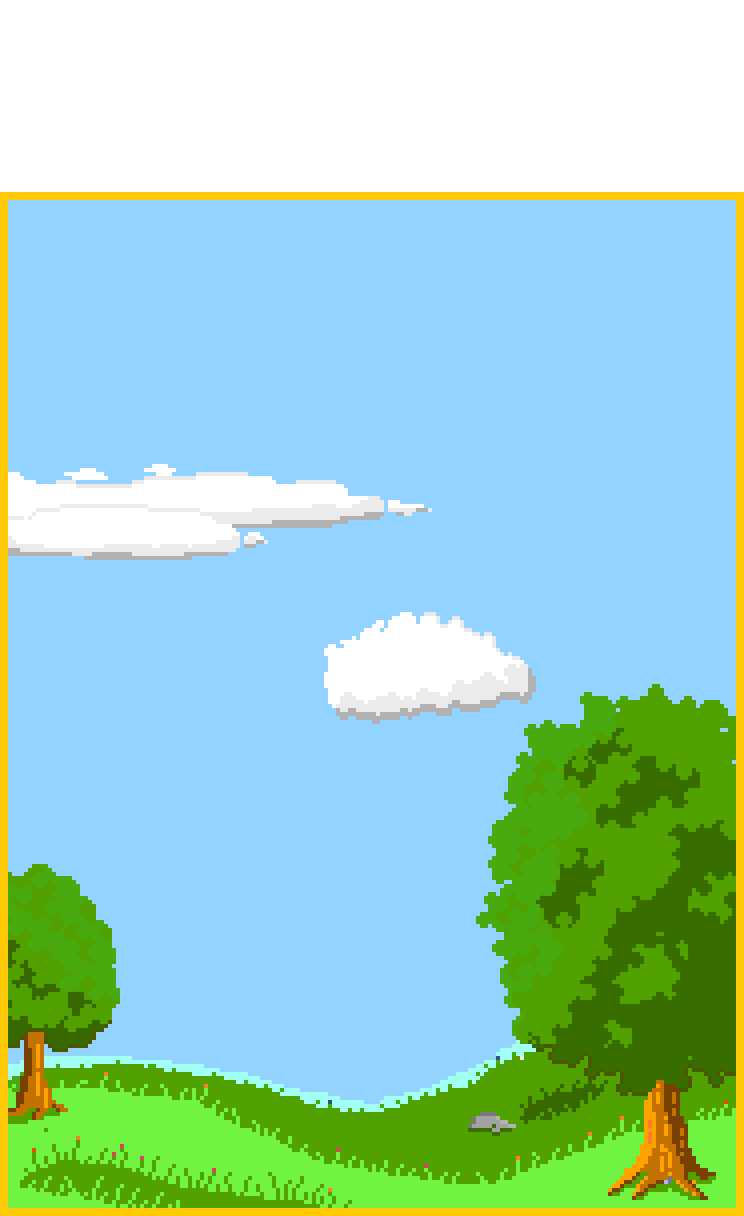
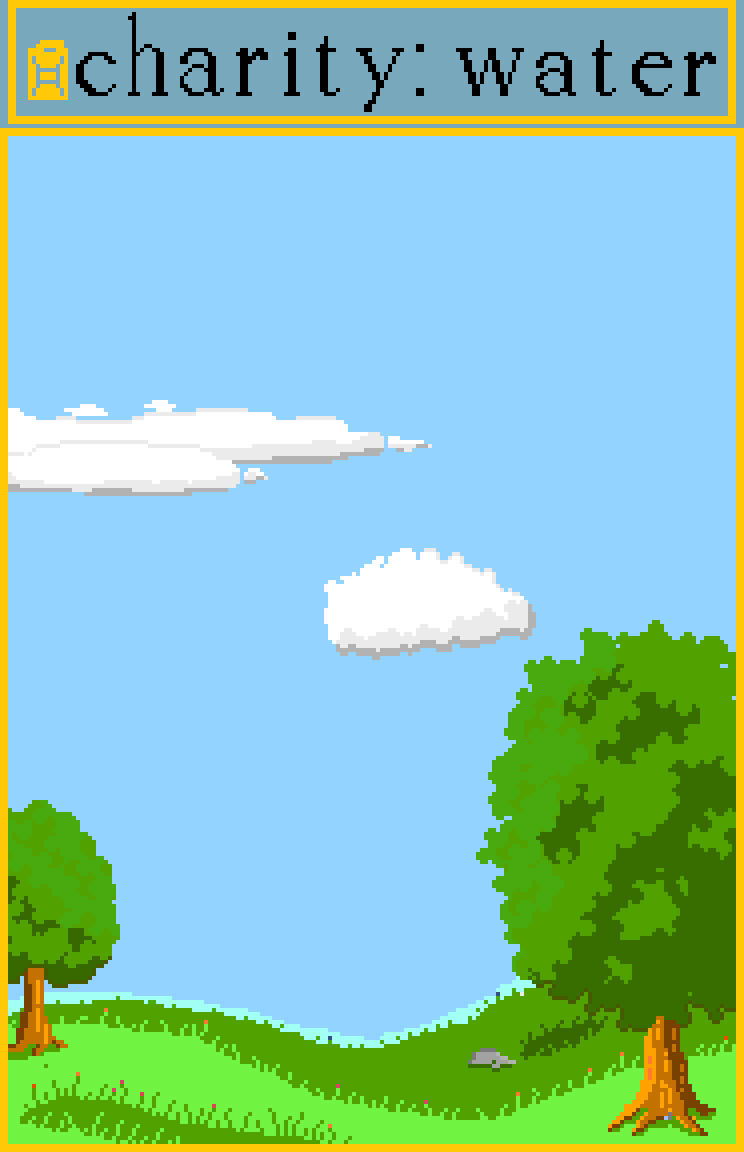
Proto-fin

diff --git a/style.css b/style.css
@@ -1,3 +1,42 @@
+/* Nav Bar Styles */
+
+.navbar {
+  position: fixed;
+  top: 0;
+  left: 0;
+  width: 100vw;
+  background: #fff;
+  border-bottom: 1.5px solid #cbccd1;
+  display: flex;
+  align-items: center;
+  padding: 0.5em 1.5em;
+  box-sizing: border-box;
+  margin: 0;
+  z-index: 1000;
+}
+
+body {
+  /* Add padding to prevent content from hiding under the fixed navbar */
+  padding-top: 3.5em;
+}
+
+.navbar-logo {
+  height: 1.2em;
+  width: 10.17em;
+  display: block;
+  margin-left: 0;
+  margin-top: 1em;
+  margin-bottom: 1em;
+}
+
+@media (max-width: 800px) {
+  .navbar {
+    justify-content: center;
+  }
+  .navbar-logo {
+    margin-left: 0;
+  }
+}
 /* Charity: water Brand Colors & Fonts
 
 Primary Colors:
@@ -23,54 +62,75 @@ Fonts:
 }
 
 body {
-  font-family: Arial, sans-serif;
-  margin: 0;
-  padding: 30px;
-  background-color: #f0f0f0;
-  color: #333;
+  font-family: 'Proxima Nova', Arial, sans-serif;
+  margin: 0em;
+  padding: 1em;
+  background-color: #fff7e1;
+}
+
+.container,
+.stats,
+.stats p,
+.game-instructions,
+.game-grid,
+button,
+.grid-cell {
+  font-family: 'Proxima Nova', Arial, sans-serif;
 }
 
 .container {
-  max-width: 750px;
-  margin: 50px auto;
-  background-color: #fff;
-  padding: 40px;
-  border-radius: 10px;
-  box-shadow: 0 2px 10px rgba(0, 0, 0, 0.1);
+  max-width: 28em;
+  min-width: 22em;
+  margin: 4em auto;
+  background-color: #77a8bb;
+  padding: .5em;
+  border-radius: .6em;
+  /* Very subtle drop shadow for depth */
+  box-shadow: 0 .1em .1em 0 rgba(0, 0, 0, 0.336);
 }
 
 h1 {
   text-align: center;
-  font-size: 30px;
-  font-weight: bold;
-  margin-bottom: 20px;
-  color: #333;
+  font-size: 2.0em;
+  font-weight: 400; /* Make the font thinner */
+  margin-bottom: .5em;
+  color: #ffffff;
+  font-family: 'Kazimir Text', serif;
+  font-style: normal;
 }
 
 h1 img {
-  height: 50px;
-  margin-right: 15px;
+  height: 3em;
+  margin-right: 3em;
   display: block;
 }
 
 .game-instructions {
-  font-size: 18px;
-  margin-bottom: 30px;
+  font-size: 1.0em;
+  margin-bottom: 1em;
   text-align: center;
+  color: #ffffff; /* Charity: water blue for emphasis */
+  font-weight: 400;
+  letter-spacing: 0.01em;
+  line-height: 1.5;
 }
 
 .stats {
   display: flex;
-  justify-content: space-around;
-  margin-bottom: 30px;
-  background-color: #f5f5f5;
-  padding: 15px 0;
-  border-radius: 8px;
+  justify-content: space-evenly;
+  margin-bottom: 0.1em; /* Reduced space below stats */
+  margin-left: 3em;
+  margin-right: 3em;
+  padding: .5em 0;
+  border-radius: 0.4em;
+  background-color: #FFC907;
+  color: rgb(26, 26, 26);
+  border: .1em solid;
 }
 
 .stats p {
   margin: 0;
-  font-size: 18px;
+  font-size: 0.7em;
   font-weight: bold;
   color: #333;
 }
@@ -78,17 +138,17 @@ h1 img {
 .game-grid {
   display: grid;
   grid-template-columns: repeat(10, 1fr);
-  width: 315px;
-  height: 512px;
-  margin: 2em auto;           /* Center the grid vertically and horizontally */
-  padding: 40px 40px 10px;
-  position: relative;         /* Needed for absolute positioning of floating elements */
+  width: 21em;
+  height: 35em;
+  margin: 0.1em auto 0.2em auto; /* Less space above and below grid */
+  padding: 0.7em 1em 2em;
+  position: static;         /* Needed for absolute positioning of floating elements */
   background-image: url('img/Background.png');
   background-size: contain;   /* Make the image fit inside the grid area */
   background-position: center;
   background-repeat: no-repeat;
   align-content: center;
-  gap: 6px;                   /* Adds spacing between grid cells */
+  gap: .2em;                   /* Adds spacing between grid cells */
 }
 .grid-cell {
   background-color: #00000000;
@@ -108,21 +168,21 @@ h1 img {
   top: 50%;
   left: 50%;
   transform: translate(-50%, -50%);
-  width: 3em;
-  height: 3em;
+  width: 4em;
+  height: 7em;
   /* Ensure the wrapper is properly centered */
 }
 
 .water-can {
   width: 100%;
   height: 100%;
-  background-image: url('img/water-can.png');
+  background-image: url('img/waterdroplet.png');
   background-size: cover;
   background-repeat: no-repeat;
   background-position: center;
   cursor: pointer;
-  border-radius: 50%;
-  animation: popUp 3.0s cubic-bezier(0.17, 0.67, 0.34, 2);
+  border-radius: 0%;
+  animation: popUp 6.0s cubic-bezier(0.17, 0.67, 0.34, 2);
   transform-origin: center; /* Ensure scaling happens from the center */
   opacity: 1;
   transition: opacity 0.8s;
@@ -133,7 +193,7 @@ h1 img {
 
 @keyframes popUp {
   0% {
-    transform: scale(0.5); /* Start scaling from the center */
+    transform: scale(0.7); /* Start scaling from the center */
   }
   100% {
     transform: scale(1); /* End scaling at full size */
@@ -142,14 +202,15 @@ h1 img {
 
 
 button {
-  background-color: #4CAF50;
-  color: white;
-  border: none;
-  padding: 12px 24px;
-  font-size: 16px;
-  border-radius: 8px;
+  background-color: #FFC907;
+  color: rgb(26, 26, 26);
+  border: .1em solid;
+  padding: .7em 2.4em;
+  font-size: 1.0em;
+  font-weight: bold;
+  border-radius: 0.3em;
   cursor: pointer;
   display: block;
-  margin: 30px auto 0;
+  margin: 0em auto .8em;
   transition: background-color 0.2s;
 }

diff --git a/script.js b/script.js
@@ -2,13 +2,16 @@
 const GOAL_CANS = 25;        // Total items needed to collect
 let currentCans = 0;         // Current number of items collected
 let gameActive = false;      // Tracks if game is currently running
-let spawnInterval;          // Holds the interval for spawning items
+let spawnInterval;           // Holds the interval for spawning items
+let timerInterval;           // Holds the interval for the countdown timer
+const GAME_TIME = 30;        // Total game time in seconds
+let timeLeft = GAME_TIME;    // Time left in the game
 
-// Creates the 3x3 game grid where items will appear
+// Creates the 10x10 game grid where items will appear
 function createGrid() {
   const grid = document.querySelector('.game-grid');
   grid.innerHTML = ''; // Clear any existing grid cells
-  for (let i = 0; i < 140; i++) {
+  for (let i = 0; i < 100; i++) {
     const cell = document.createElement('div');
     cell.className = 'grid-cell'; // Each cell represents a grid square
     grid.appendChild(cell);
@@ -74,17 +77,46 @@ function spawnWaterCan() {
   });
 }
 
+// Function to update the timer display
+function updateTimerDisplay() {
+  document.getElementById('timer').textContent = timeLeft;
+}
+
 // Initializes and starts a new game
 function startGame() {
   if (gameActive) return; // Prevent starting a new game if one is already active
   gameActive = true;
+  currentCans = 0;
+  timeLeft = GAME_TIME;
+  document.getElementById('current-cans').textContent = currentCans;
+  updateTimerDisplay();
   createGrid(); // Set up the game grid
-  spawnInterval = setInterval(spawnWaterCan, 1000); // Spawn water cans every second
+
+  // Start spawning water cans every second
+  spawnInterval = setInterval(spawnWaterCan, 1000);
+
+  // Start the countdown timer
+  timerInterval = setInterval(() => {
+    timeLeft -= 1;
+    updateTimerDisplay();
+    // If time runs out, end the game
+    if (timeLeft <= 0) {
+      endGame();
+    }
+  }, 1000);
 }
 
+// Ends the game and stops all intervals
 function endGame() {
   gameActive = false; // Mark the game as inactive
   clearInterval(spawnInterval); // Stop spawning water cans
+  clearInterval(timerInterval); // Stop the timer
+
+  // Optionally, remove any remaining water can
+  const existingCan = document.querySelector('.floating-water-can');
+  if (existingCan) {
+    existingCan.remove();
+  }
 }
 
 // Set up click handler for the start button

diff --git a/index.html b/index.html
@@ -7,16 +7,20 @@
   <link href="style.css" rel="stylesheet" type="text/css" />
 </head>
 <body>
+  <!-- Navigation Bar -->
+  <nav class="navbar">
+    <img src="img/cw_logo_horizontal.png" alt="Charity: water logo" class="navbar-logo">
+  </nav>
   <div class="container">
-    <h1>Water Quest</h1>
+    <h1>By The Jerry-Full</h1>
     <p class="game-instructions">Collect 20 items to complete the game!</p>
     <div class="stats">
-      <p>Cans Collected: <span id="current-cans">0</span></p>
-      <p>Time Left: <span id="timer">30</span>s</p>
+      <p>L I T E R S: <span id="current-cans">0</span></p>
+      <p>T I M E: <span id="timer">30</span>s</p>
     </div>
     <div id="achievements" class="achievement"></div>
     <div class="game-grid"></div>
-    <button id="start-game">Start Game</button>
+    <button id="start-game">START GAME</button>
   </div>
   <script src="script.js"></script>
 </body>
